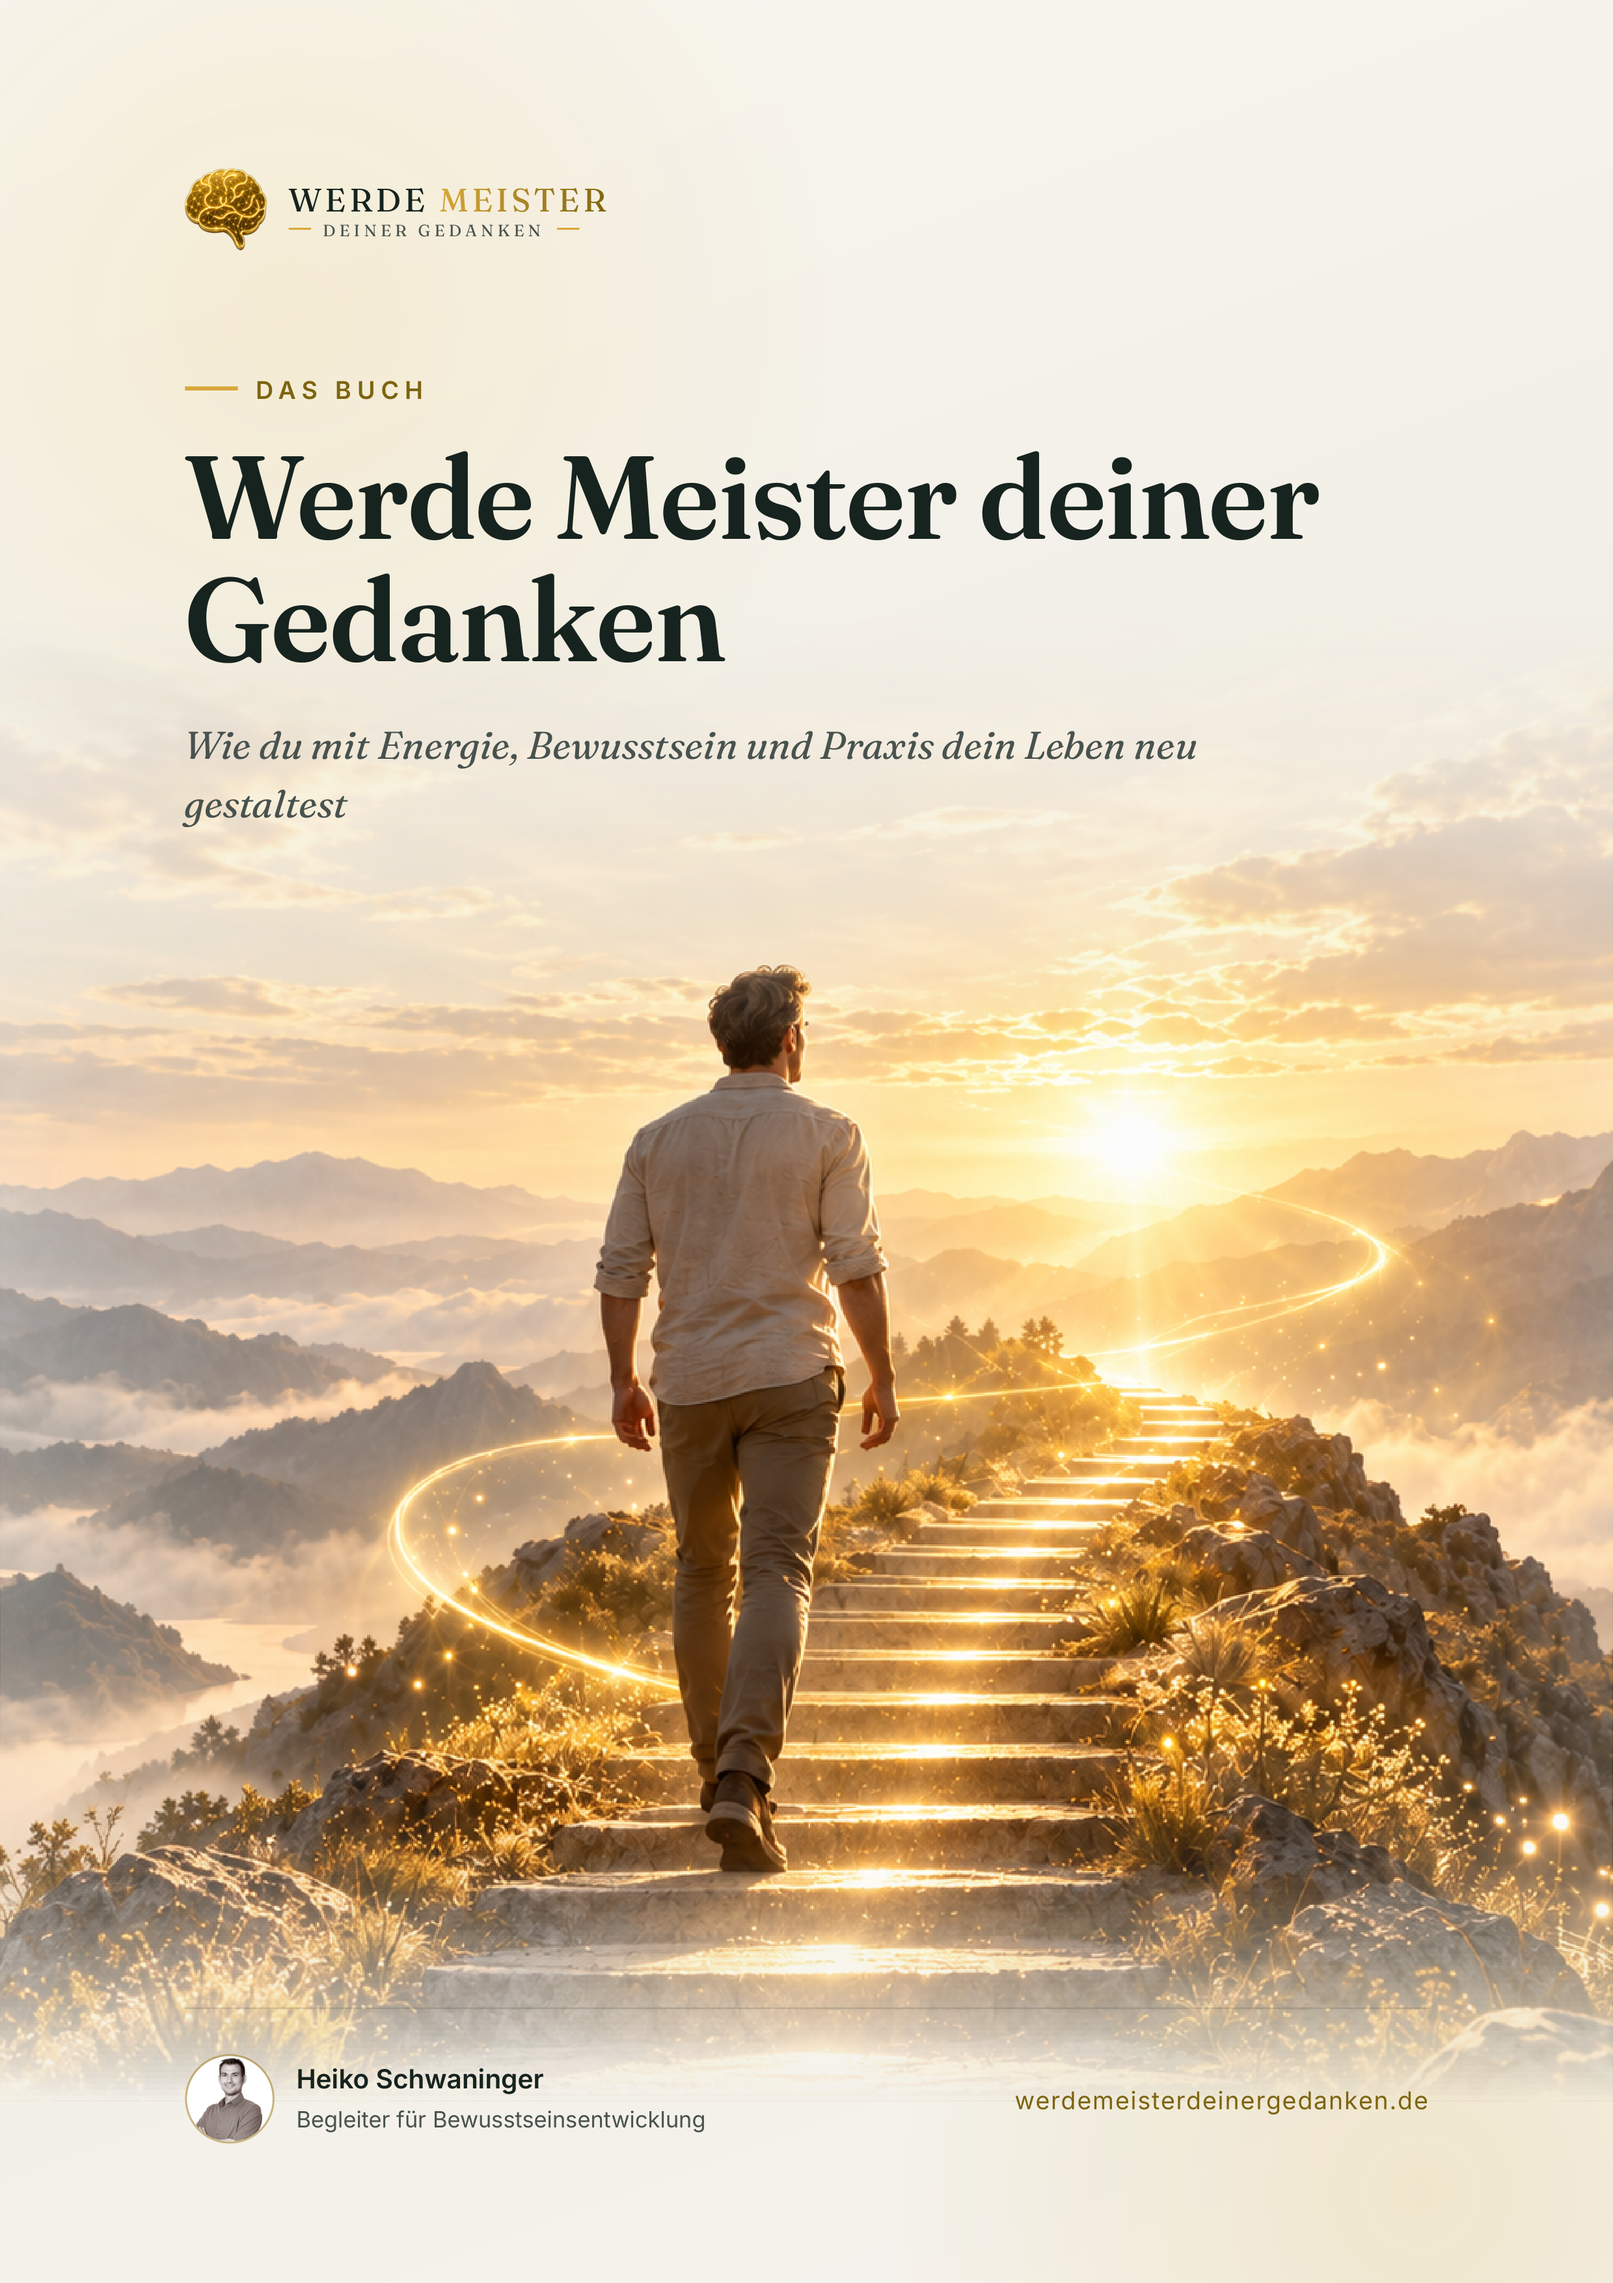
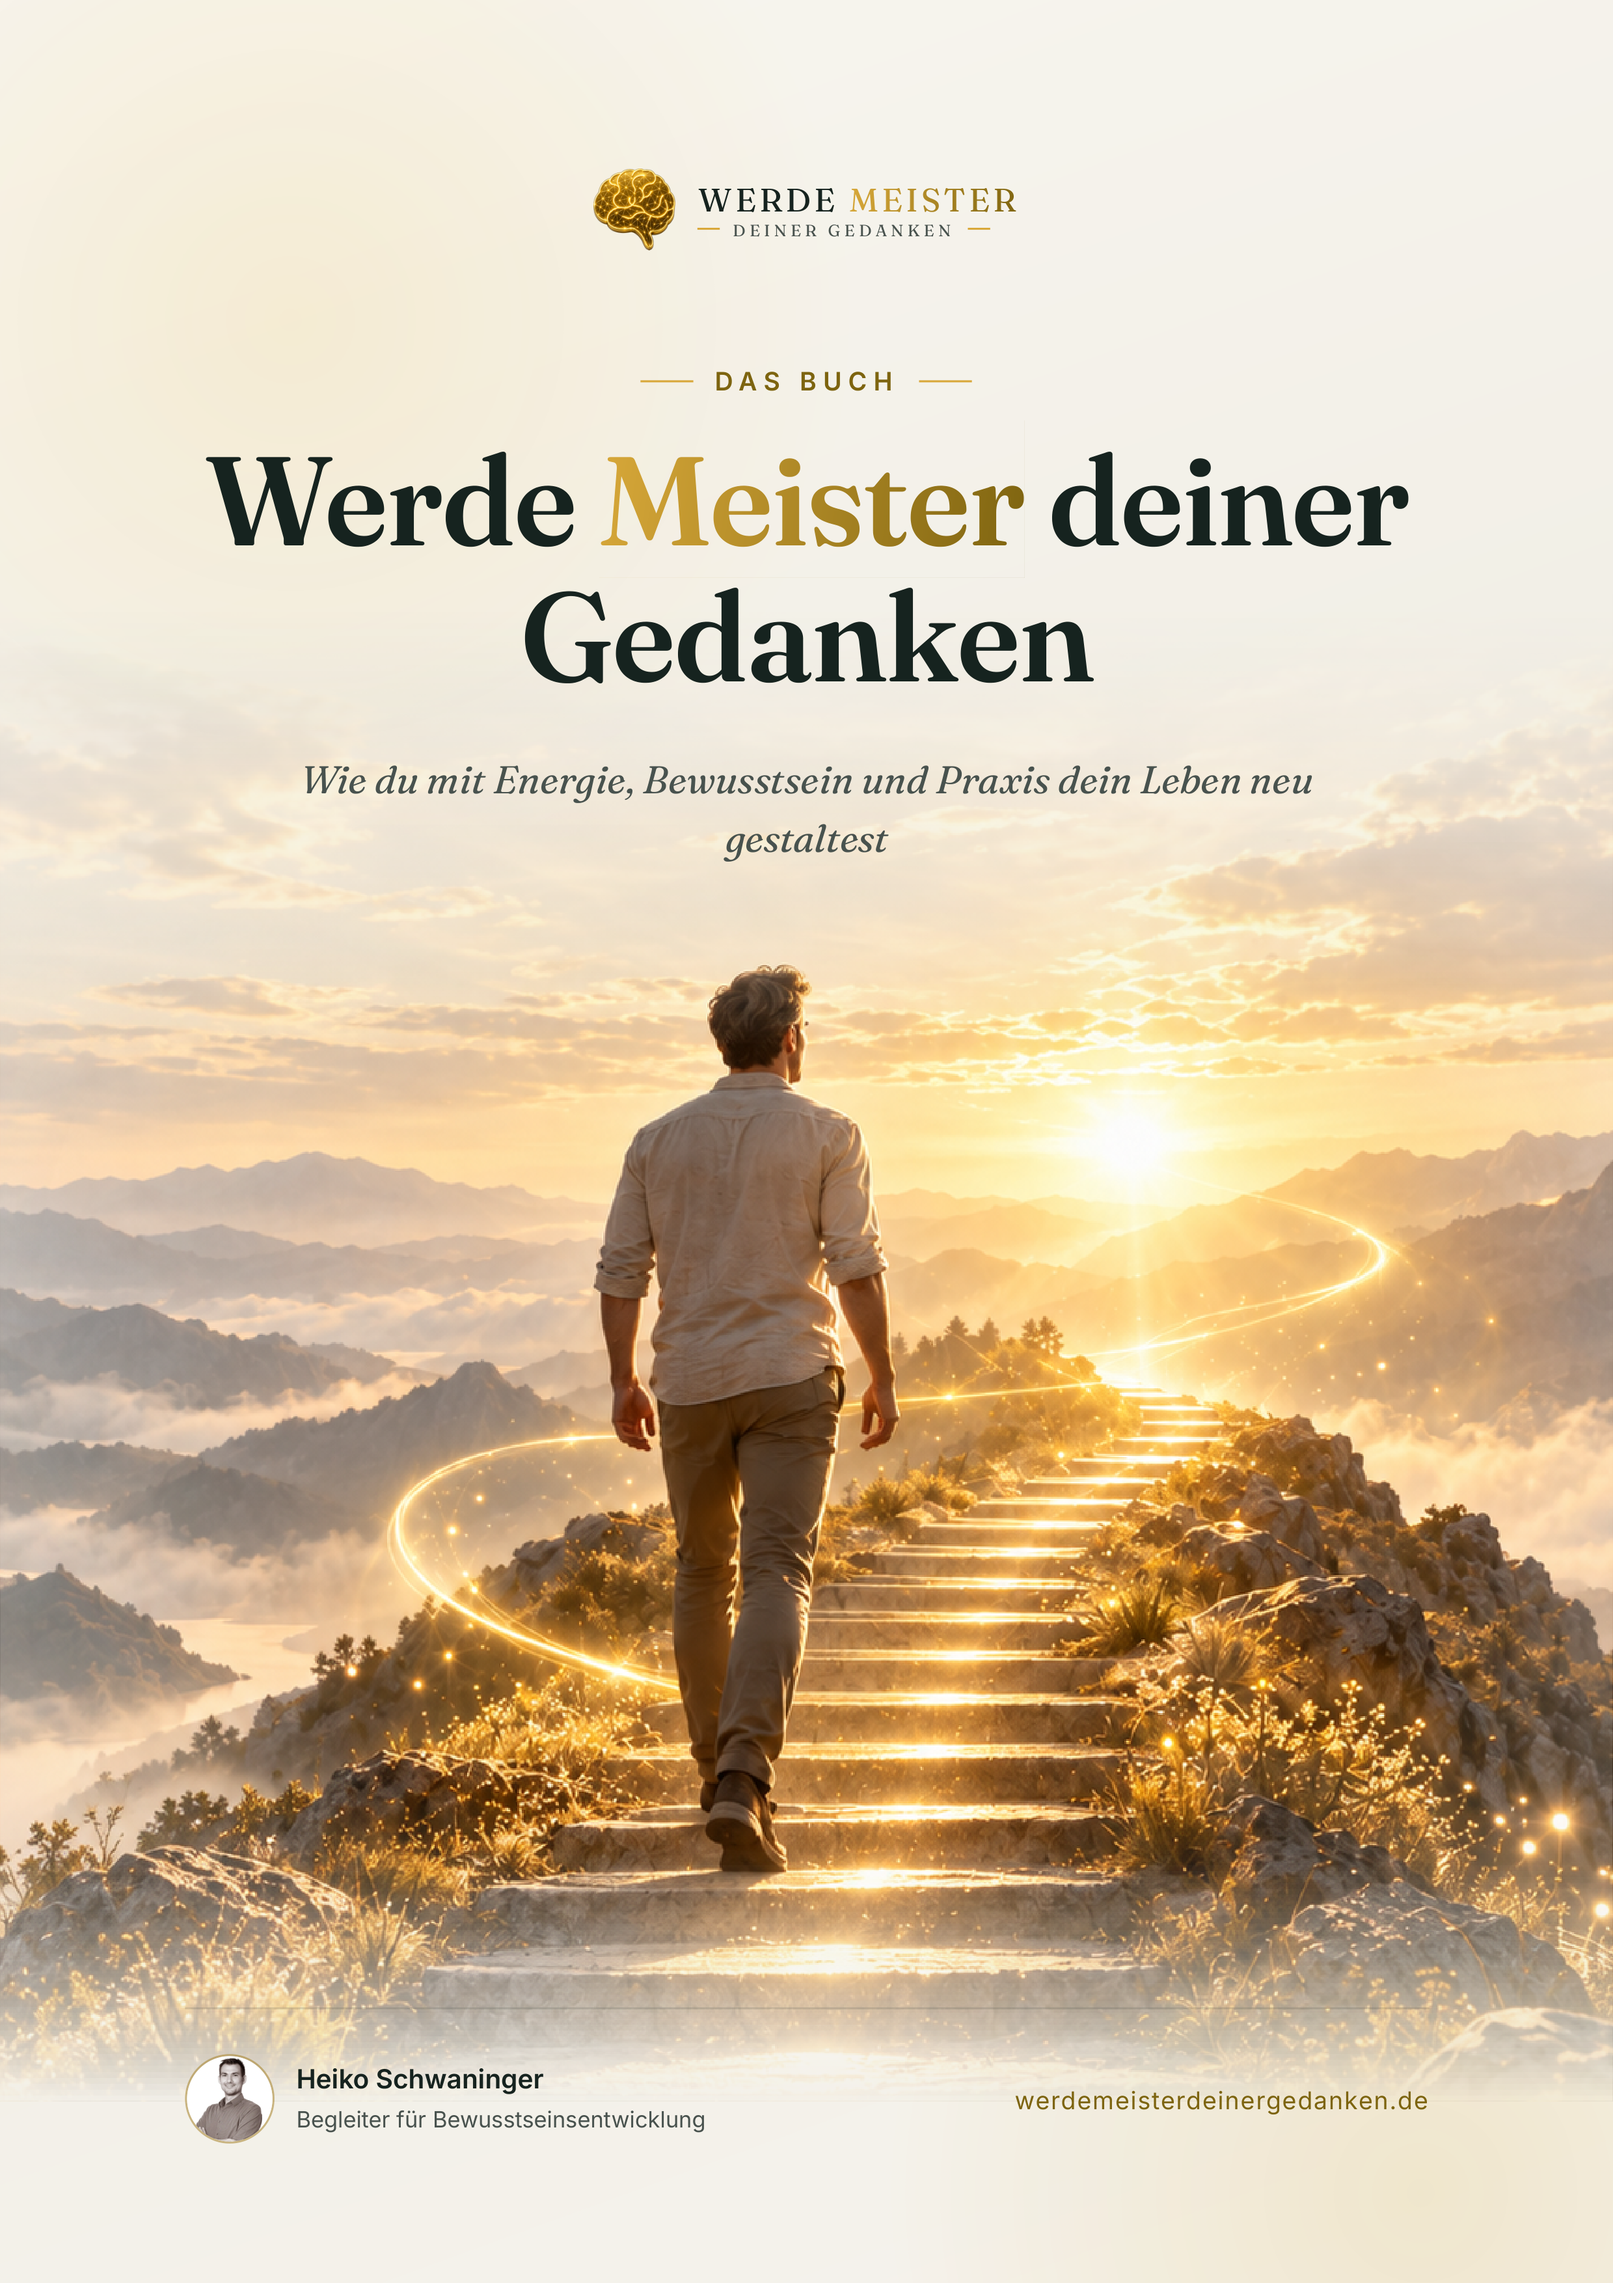
Buchcover: Titel zentriert, „Meister" in Gold, Abstände justiert
Cover-Kopf überarbeitet: Logo-Lockup, Eyebrow („— DAS BUCH —" mit Linien
beidseitig), Titel und Untertitel jetzt zentriert. Das Wort „Meister" im
Gold-Verlauf hervorgehoben (Marken-Akzent wie im Logo). Titel etwas größer
(62px) mit mehr Zeilen-/Abstand zum Untertitel; Fuß bleibt bündig. Cover neu
gerendert.

Claude-Session: https://claude.ai/code/session_01NV3zTsPDWxuzvzkdpV9YZo

diff --git a/tools/pdf/build-buch.py b/tools/pdf/build-buch.py
@@ -224,6 +224,8 @@ parts_html = []
 # -- Titelseite ------------------------------------------------------------
 _cover_motif = ('<div class="hero-photo" style="background-image:url(\'%s\')"></div>' % COVER_PHOTO) \
     if COVER_PHOTO else ('<img class="brain" src="%s">' % BRAIN)
+# „Meister" im Titel gold hervorheben (Marken-Akzent wie im Logo).
+_title_html = esc(title).replace("Meister", "<em>Meister</em>", 1)
 parts_html.append("""
 <section class="cover">
   {motif}
@@ -239,7 +241,7 @@ parts_html.append("""
   </div>
 </section>
 """.format(motif=_cover_motif, logo=LOGO, heiko=HEIKO,
-           title=esc(title), subtitle=esc(subtitle),
+           title=_title_html, subtitle=esc(subtitle),
            author=esc(author or "Heiko Schwaninger")))
 
 # -- Hinweis des Autors + Impressum/Copyright ------------------------------
@@ -364,7 +366,7 @@ body::before{ content:""; position:fixed; inset:0; background:var(--paper); z-in
     radial-gradient(118% 92% at 50% 46%, #000 40%, rgba(0,0,0,0.5) 72%, transparent 100%),
     linear-gradient(to bottom, transparent 0%, #000 30%, #000 84%, transparent 100%);
   mask-composite:intersect; }
-.cover .inner{ position:relative; height:100%; padding:22mm 24mm 18mm; display:flex; flex-direction:column; }
+.cover .inner{ position:relative; height:100%; padding:22mm 24mm 18mm; display:flex; flex-direction:column; align-items:center; text-align:center; }
 .brandrow{ display:flex; align-items:center; gap:11px; }
 .brandrow img{ width:40px; height:40px; }
 .brandrow .wm{ display:flex; flex-direction:column; gap:3px; line-height:1; }
@@ -372,12 +374,14 @@ body::before{ content:""; position:fixed; inset:0; background:var(--paper); z-in
 .brandrow .wm1 em{ font-style:normal; background:linear-gradient(100deg,#d9a93a,#7e6410); -webkit-background-clip:text; background-clip:text; color:transparent; }
 .brandrow .wm2{ display:flex; align-items:center; gap:6px; font-family:'Fraunces',serif; font-size:8px; letter-spacing:.24em; text-transform:uppercase; color:var(--ink-soft); }
 .brandrow .wm2 i{ display:block; height:1px; width:11px; background:var(--gold-500); }
-.cover .eyebrow{ margin-top:16mm; display:inline-flex; align-items:center; gap:9px;
-  font-size:12px; letter-spacing:.24em; text-transform:uppercase; color:var(--gold-700); font-weight:700; }
-.cover .eyebrow::before{ content:""; width:26px; height:1.5px; background:var(--gold-500); display:inline-block; }
-.cover .title{ font-size:58px; line-height:1.04; font-weight:600; margin-top:15px; letter-spacing:-.6px; max-width:150mm; }
-.cover .promise{ margin-top:18px; font-size:19px; line-height:1.5; color:var(--ink-soft); max-width:150mm; font-family:'Fraunces',serif; font-style:italic; }
-.cover .coverfoot{ margin-top:auto; display:flex; align-items:center; justify-content:space-between; border-top:1px solid rgba(22,35,31,.14); padding-top:6mm; }
+.cover .eyebrow{ margin-top:15mm; display:inline-flex; align-items:center; gap:10px;
+  font-size:12.5px; letter-spacing:.26em; text-transform:uppercase; color:var(--gold-700); font-weight:700; }
+.cover .eyebrow::before, .cover .eyebrow::after{ content:""; width:26px; height:1.5px; background:var(--gold-500); display:inline-block; }
+.cover .title{ font-size:62px; line-height:1.08; font-weight:600; margin-top:18px; letter-spacing:-.6px; max-width:170mm; }
+.cover .title em{ font-style:normal; background:linear-gradient(100deg,#d9a93a,#7e6410);
+  -webkit-background-clip:text; background-clip:text; color:transparent; }
+.cover .promise{ margin-top:22px; font-size:19px; line-height:1.55; color:var(--ink-soft); max-width:150mm; font-family:'Fraunces',serif; font-style:italic; }
+.cover .coverfoot{ margin-top:auto; align-self:stretch; display:flex; align-items:center; justify-content:space-between; text-align:left; border-top:1px solid rgba(22,35,31,.14); padding-top:6mm; }
 .cover .author{ display:flex; align-items:center; gap:11px; }
 .cover .author img{ width:44px; height:44px; border-radius:50%; object-fit:cover; border:1.5px solid rgba(168,132,42,.55); }
 .cover .author b{ display:block; font-size:13px; color:var(--ink); font-weight:600; }
